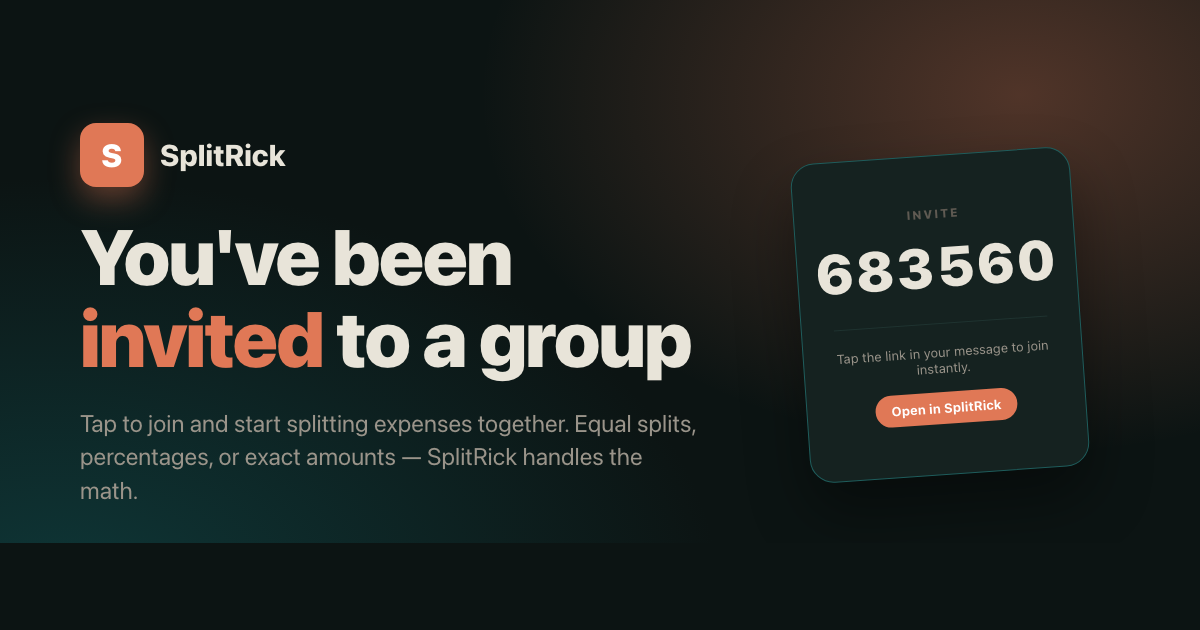
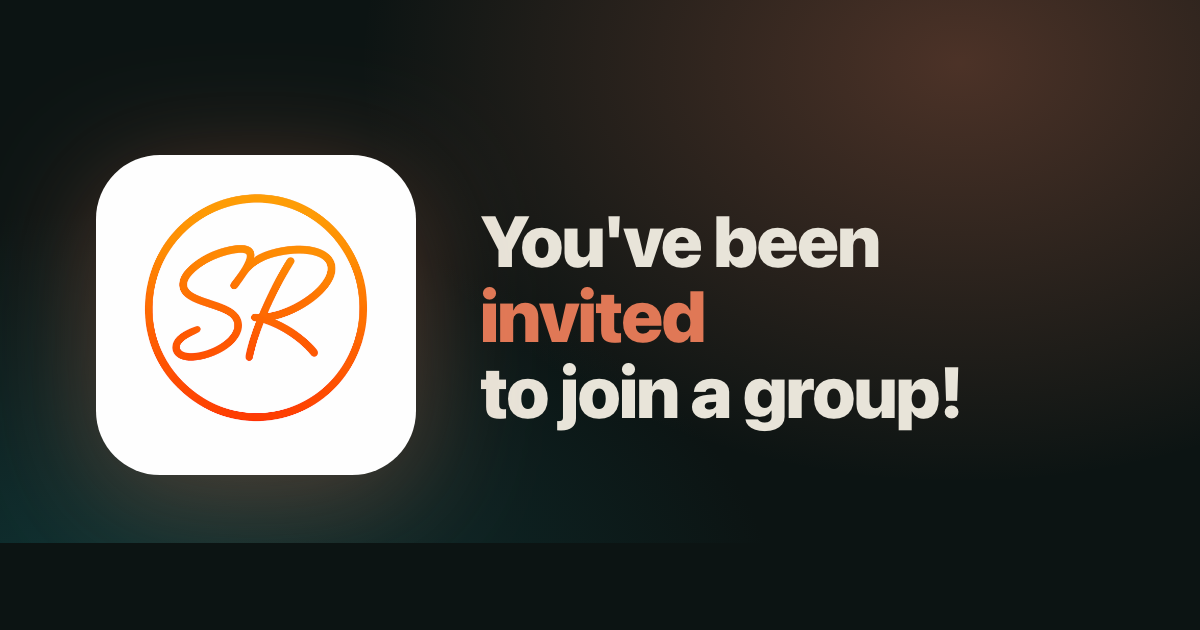
Update OG card copy

Changed region(s): [[0.0617, 0.181, 0.8942, 0.8444]]

diff --git a/og-invite.html b/og-invite.html
@@ -29,51 +29,38 @@
       color: #E8E4D9;
     }
     body {
-      /* Layered radial gradients on a teal-tinted near-black base —
-         matches the in-app aesthetic. The blobs add depth without
-         needing real raster artwork. */
+      /* Layered radial gradients on a teal-tinted near-black base. */
       background:
-        radial-gradient(900px 600px at 85% 15%, rgba(224,120,86,.32), transparent 60%),
-        radial-gradient(1100px 700px at 5% 95%, rgba(15,61,62,.85), transparent 60%),
+        radial-gradient(1000px 700px at 80% 10%, rgba(224,120,86,.30), transparent 60%),
+        radial-gradient(1100px 700px at 10% 100%, rgba(15,61,62,.80), transparent 60%),
         #0C1413;
       display: grid;
-      grid-template-columns: 1fr 360px;
+      grid-template-columns: 320px 1fr;
       align-items: center;
-      gap: 60px;
-      padding: 0 80px;
+      gap: 64px;
+      padding: 0 96px;
       box-sizing: border-box;
     }
-    .left {
-      display: flex;
-      flex-direction: column;
-      gap: 28px;
-    }
-    .brand-row {
-      display: flex;
-      align-items: center;
-      gap: 16px;
-    }
-    .logo {
-      width: 64px;
-      height: 64px;
-      border-radius: 16px;
-      background: #E07856;
+    .logo-wrap {
       display: grid;
       place-items: center;
-      font-weight: 900;
-      font-size: 32px;
-      color: #fff;
-      box-shadow: 0 12px 30px rgba(224, 120, 86, 0.4);
     }
-    .brand-name {
-      font-size: 30px;
-      font-weight: 800;
-      letter-spacing: -0.01em;
-      color: #E8E4D9;
+    .logo-img {
+      width: 320px;
+      height: 320px;
+      object-fit: contain;
+      border-radius: 64px;
+      /* Soft terracotta glow under the logo */
+      filter: drop-shadow(0 20px 60px rgba(224, 120, 86, 0.35));
+    }
+    .copy {
+      display: flex;
+      flex-direction: column;
+      gap: 20px;
     }
     h1 {
       margin: 0;
-      font-size: 78px;
+      font-size: 72px;
       line-height: 1.05;
       font-weight: 900;
       letter-spacing: -0.025em;
@@ -82,96 +69,21 @@
     h1 .accent {
       color: #E07856;
     }
-    p {
-      margin: 0;
-      font-size: 24px;
-      line-height: 1.4;
-      color: #9A948A;
-      max-width: 620px;
-    }
-    .right {
-      display: grid;
-      place-items: center;
-      width: 360px;
-      height: 360px;
-    }
-    /* Stylized invite ticket — gives the right side something
-       distinctive without needing actual screenshot art. */
-    .ticket {
-      width: 280px;
-      height: 320px;
-      background: #152220;
-      border: 1px solid #1F5D5C;
-      border-radius: 24px;
-      box-shadow: 0 30px 60px rgba(0, 0, 0, 0.4);
-      display: flex;
-      flex-direction: column;
-      align-items: center;
-      justify-content: center;
-      padding: 32px;
-      box-sizing: border-box;
-      position: relative;
-      transform: rotate(-4deg);
-    }
-    .ticket-label {
-      text-transform: uppercase;
-      letter-spacing: 0.16em;
-      font-size: 12px;
-      font-weight: 800;
-      color: #5F5A52;
-      margin-bottom: 12px;
-    }
-    .ticket-code {
-      font-size: 56px;
-      font-weight: 900;
-      color: #E8E4D9;
-      letter-spacing: 0.04em;
-      font-variant-numeric: tabular-nums;
-      margin-bottom: 24px;
-    }
-    .ticket-divider {
-      width: 100%;
-      height: 1px;
-      background: #1F3330;
-      margin: 0 0 20px;
-    }
-    .ticket-meta {
-      font-size: 13px;
-      color: #9A948A;
-      text-align: center;
-    }
-    .ticket-cta {
-      margin-top: 16px;
-      display: inline-block;
-      padding: 8px 16px;
-      border-radius: 999px;
-      background: #E07856;
-      color: #fff;
-      font-size: 13px;
+    .domain {
+      font-size: 22px;
       font-weight: 700;
+      letter-spacing: 0.08em;
+      color: #5F5A52;
+      text-transform: uppercase;
     }
   </style>
 </head>
 <body>
-  <div class="left">
-    <div class="brand-row">
-      <div class="logo">S</div>
-      <div class="brand-name">SplitRick</div>
-    </div>
-    <h1>You've been <span class="accent">invited</span> to a group</h1>
-    <p>Tap to join and start splitting expenses together. Equal splits, percentages, or exact amounts — SplitRick handles the math.</p>
+  <div class="logo-wrap">
+    <img class="logo-img" src="public/splitrick.png" alt="SplitRick">
   </div>
-
-  <div class="right">
-    <div class="ticket">
-      <div class="ticket-label">Invite</div>
-      <div class="ticket-code">683560</div>
-      <div class="ticket-divider"></div>
-      <div class="ticket-meta">
-        Tap the link in your message to join instantly.
-      </div>
-      <div class="ticket-cta">Open in SplitRick</div>
-    </div>
+  <div class="copy">
+    <h1>You've been <span class="accent">invited</span><br>to join a group!</h1>
   </div>
 </body>
 </html>

diff --git a/public/invite.html b/public/invite.html
@@ -16,18 +16,16 @@
   <meta property="og:site_name" content="SplitRick">
   <meta property="og:type" content="website">
   <meta property="og:url" content="https://splitrick.click/invite.html">
-  <meta property="og:title" content="Join my group on SplitRick">
-  <meta property="og:description" content="Tap to join and start splitting expenses together.">
+  <meta property="og:title" content="You've been invited to join a group!">
   <meta property="og:image" content="https://splitrick.click/og-invite.png">
   <meta property="og:image:width" content="1200">
   <meta property="og:image:height" content="630">
-  <meta property="og:image:alt" content="Join a group on SplitRick">
+  <meta property="og:image:alt" content="You've been invited to join a group!">
 
   <!-- Twitter card — same story, different tag names. -->
   <meta name="twitter:card" content="summary_large_image">
-  <meta name="twitter:title" content="Join my group on SplitRick">
-  <meta name="twitter:description" content="Tap to join and start splitting expenses together.">
-  <meta name="twitter:image" content="https://splitrick.click/og-invite.png">
+  <meta name="twitter:title" content="You've been invited to join a group!">
+  <meta name="twitter:image" content="https://splitrick.click/og-invite.png"></meta>
 
   <!-- Apple's smart app banner — when the page is visited on iOS Safari,
        Safari shows a "Open in App" banner at the top automatically.
